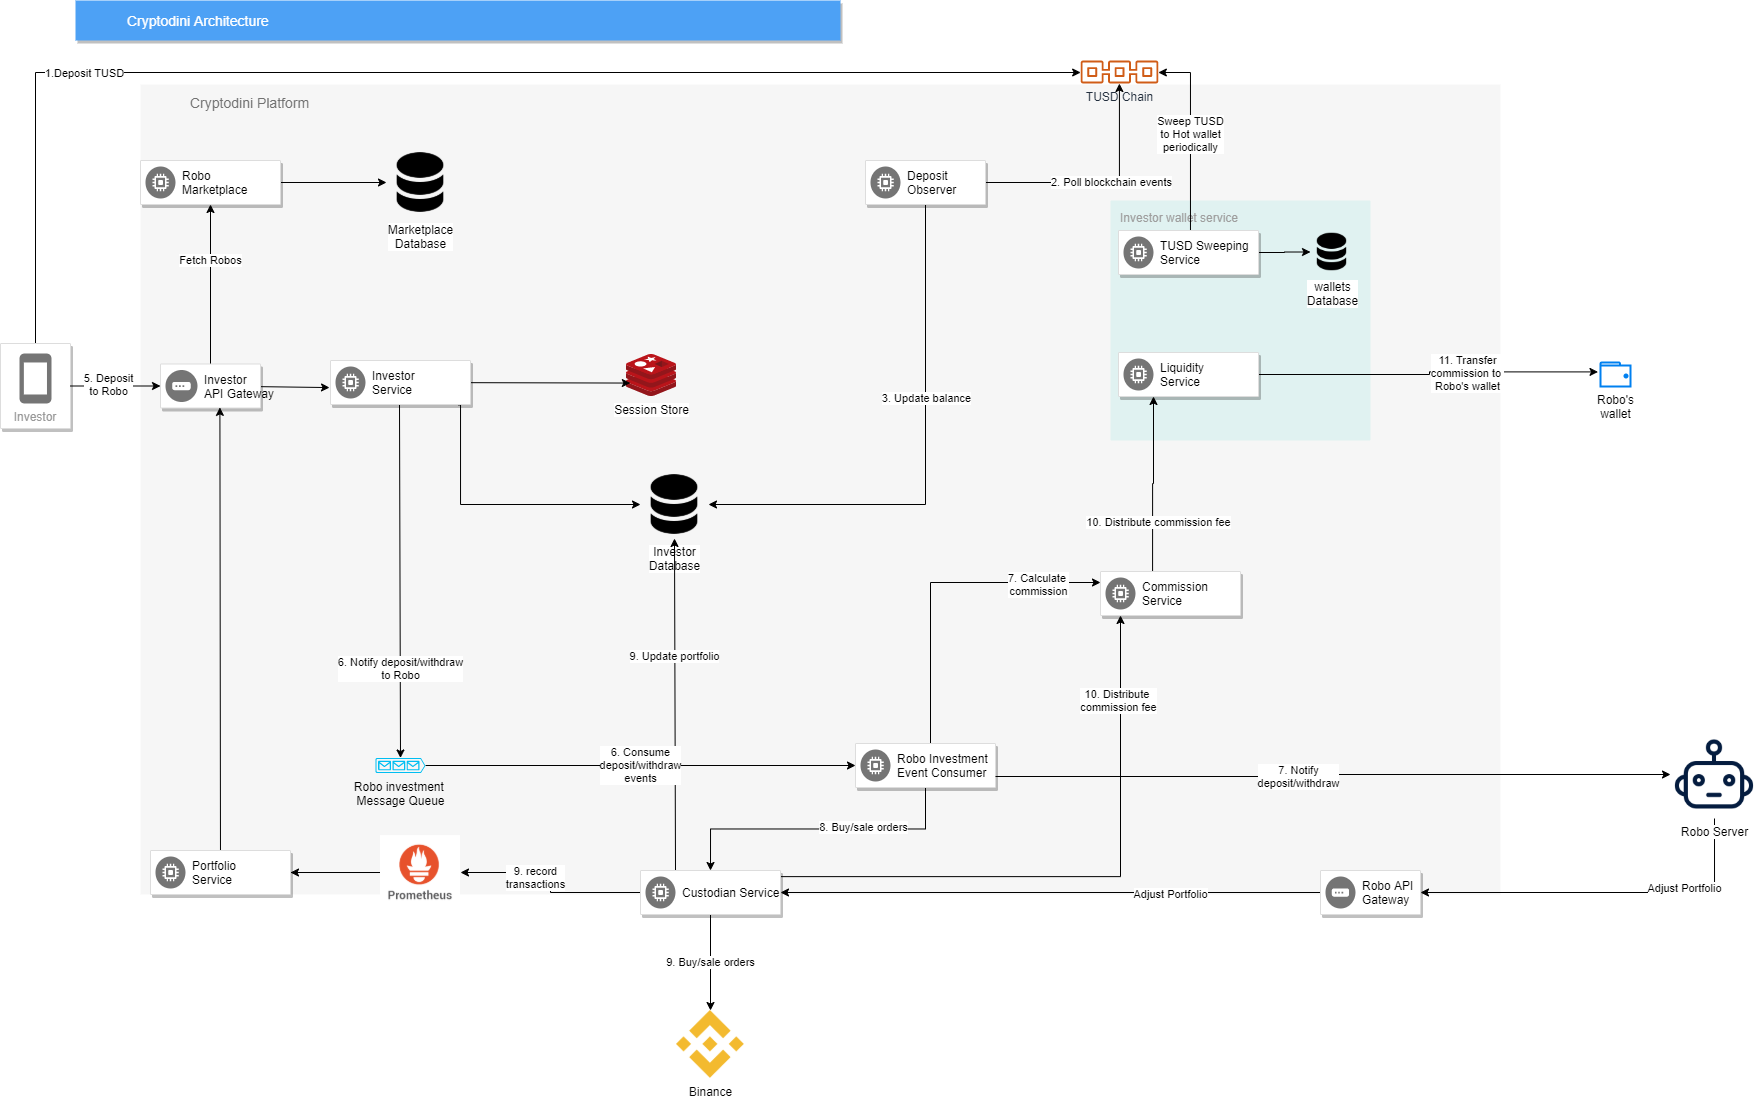
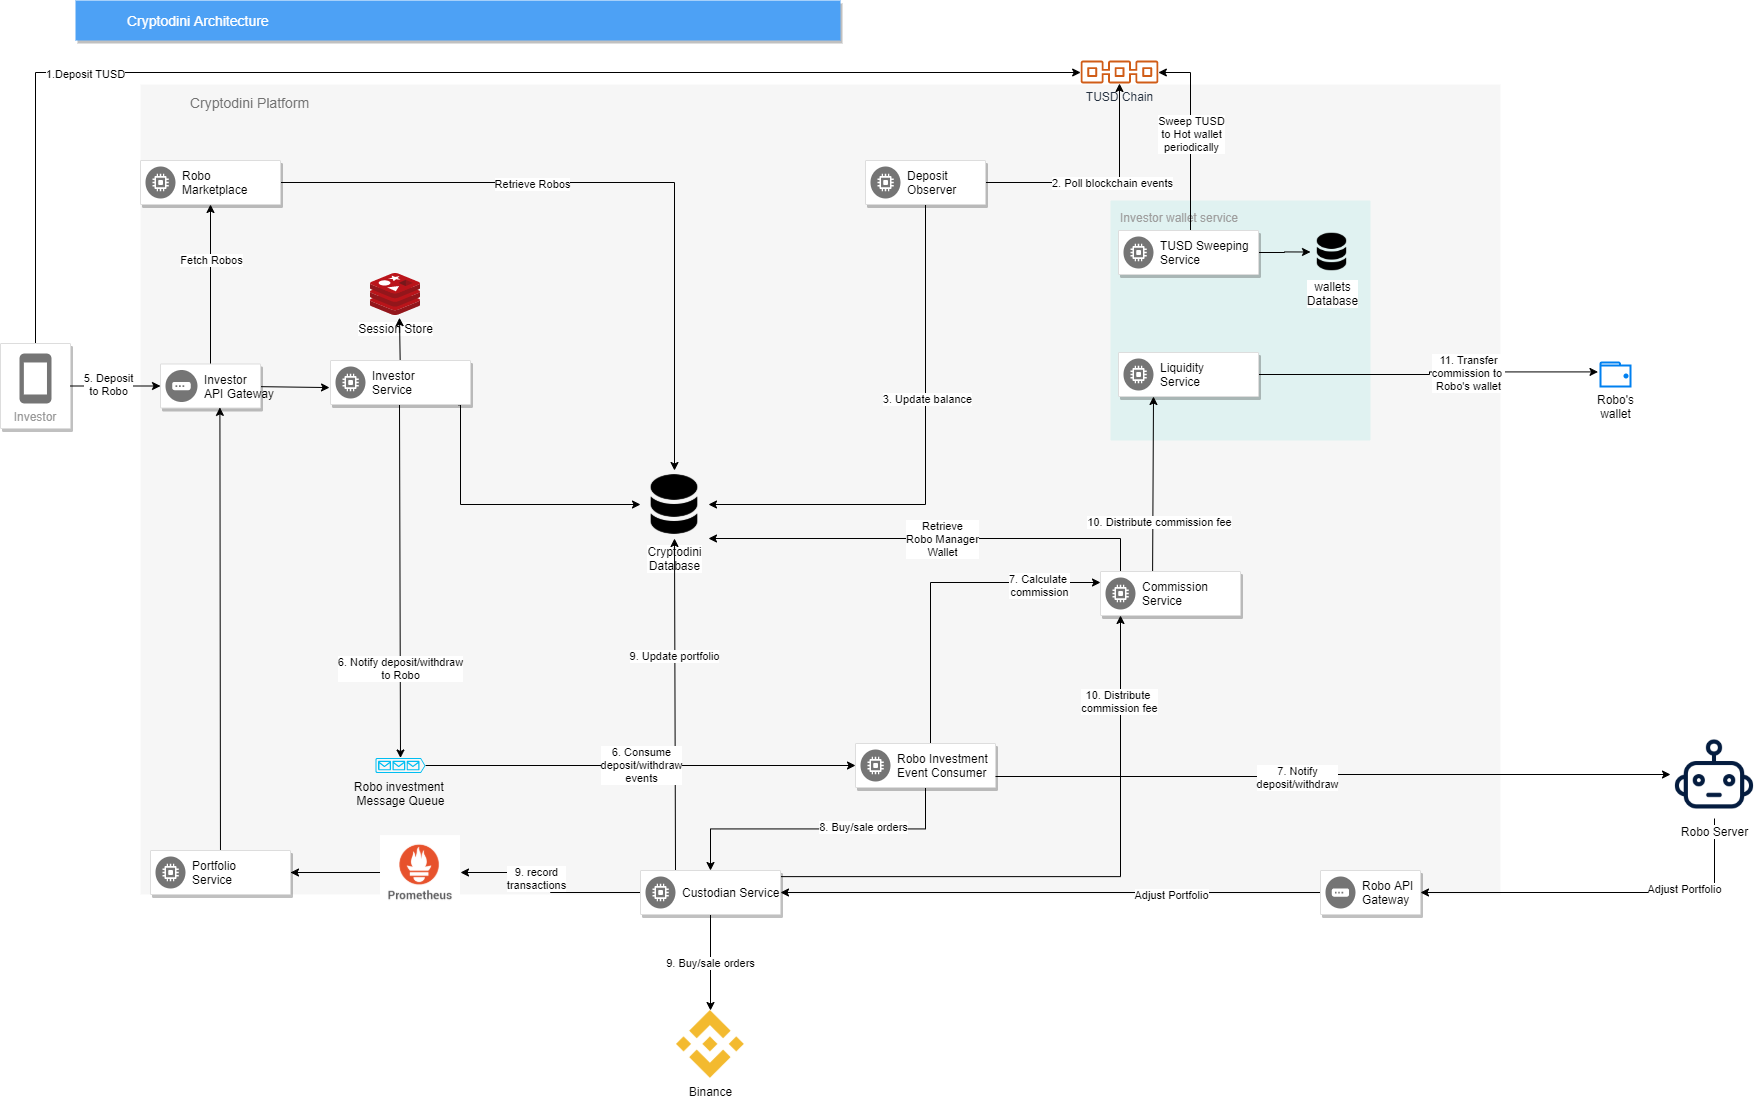
Update architecture

diff --git a/4/4.archtecture.md b/4/4.archtecture.md
@@ -25,7 +25,11 @@
 ## การบริหาร hot wallet
 TUSD Sweeping Service จะตรวจสอบว่ามี wallet ของนักลงทุนคนไหนมียอด TUSD บ้าง และจะโอน TUSD ทั้งหมดเข้าสู่ hot wallet โดย TUSD Sweeping Service จะทำงานเป็นระยะ เช่นทุกๆ 6 ชั่วโมง
 
-**Note**
+# Technology
 1. Message Queue System อาจ implement ด้วย Apache Kafka หรือ RabbitMQ ก็ได้ โดยอาจะเลือกใช้ RabbitMQ เพื่อความง่ายในการพัฒนาและ config และปรับไปใช้ Kafka เมื่อต้องการรองรับ load ที่มากขึ้นเกินกว่า 20000 message ต่อวินาที
 
 1. Service ทั้งหมดบน Cryptodini platform ถูก orchestrate โดย Kubernetes และควบคุมโดย Istio ซึ่งจะ ทำให้ service สามารถ ทำ horizontal auto scaling ได้ง่าย และยังช่วย load balancing traffic ในระหว่างแต่ละ service และ traffic จากภายนอก Cryptodini อีกด้วย
+
+1. ใช้ time-series database เช่น Prometheus ในการบันทึก transaction ซื้อขาย เพราะ time-series สามารถเรียกดู accumulated transaction ตามช่วงเวลาต่างๆได้ง่าย และเหมาะกับการบันทึกข้อมูลแบบ transaction
+
+1. Cryptodini Database ใช้ Relationsal Database เช่น PostgreSQL หรือ MySQL/MariaDB เพราะต้องการ ACID function และการออกแบบ schema อ้างอิงจาก model ของ data แทนที่จะอ้างอิงการใช้งาน application ซึ่งอาจจะมีการเปลี่ยนแปลงในอนาคต ทั้งนี้อาจมีการ denormalize database หรือแยก data บางส่วนออกไปเป็น database ชนิดอื่นเมื่อความต้องการเหมาะสมกับคุณสมบัติของ database นั้นๆในอนาคต
